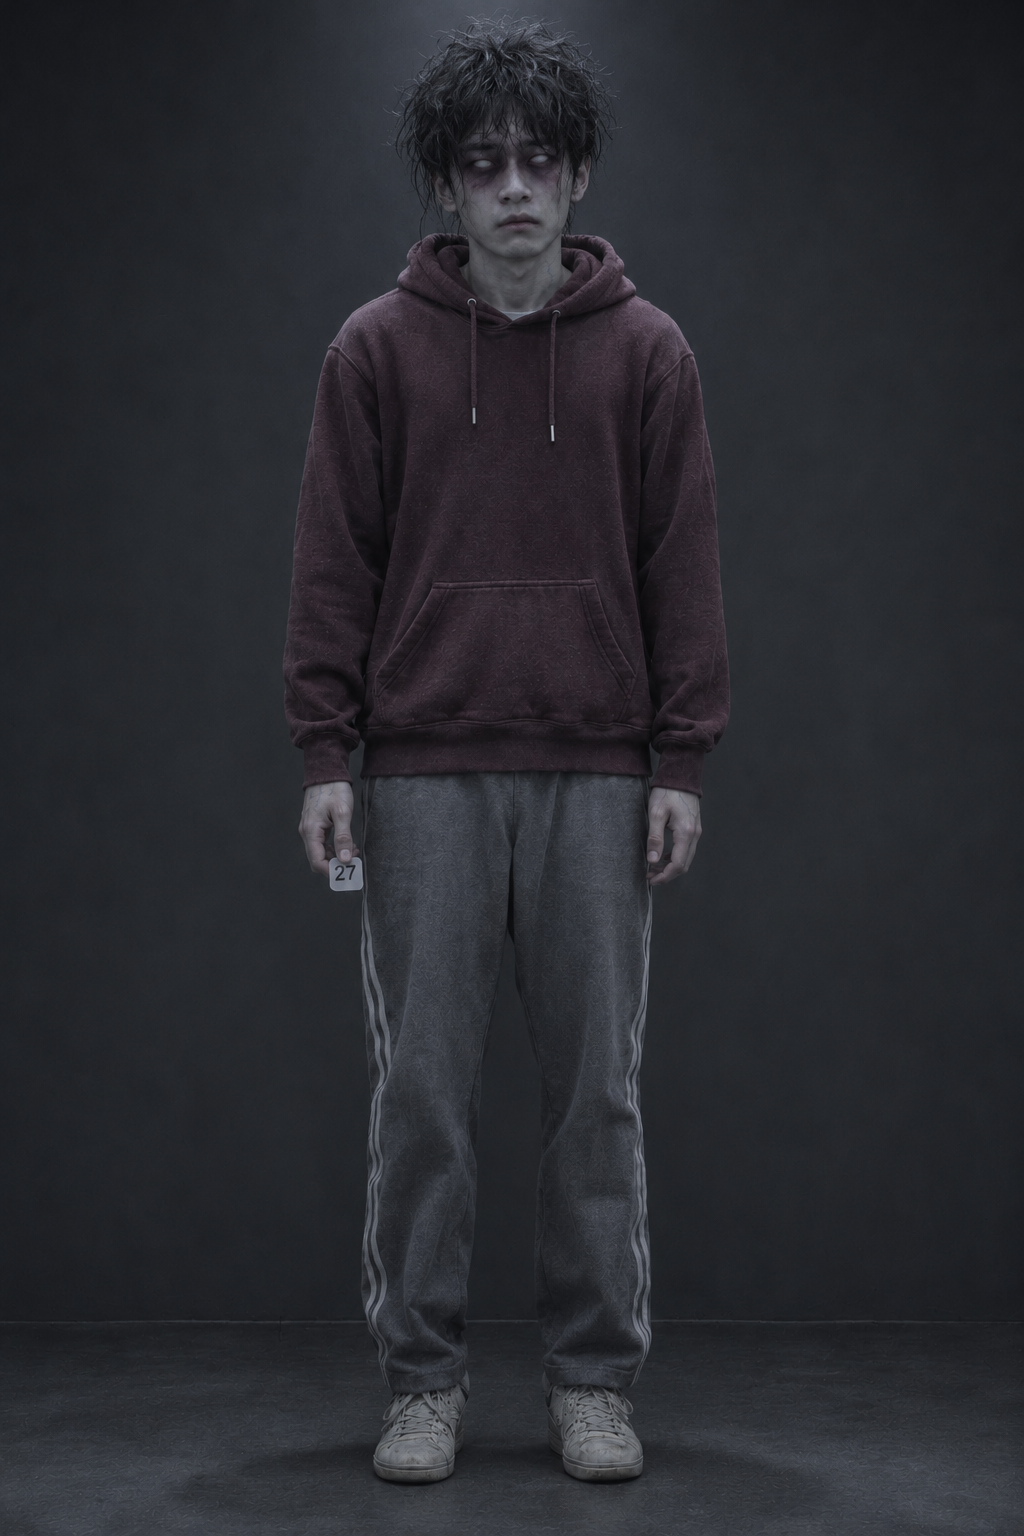
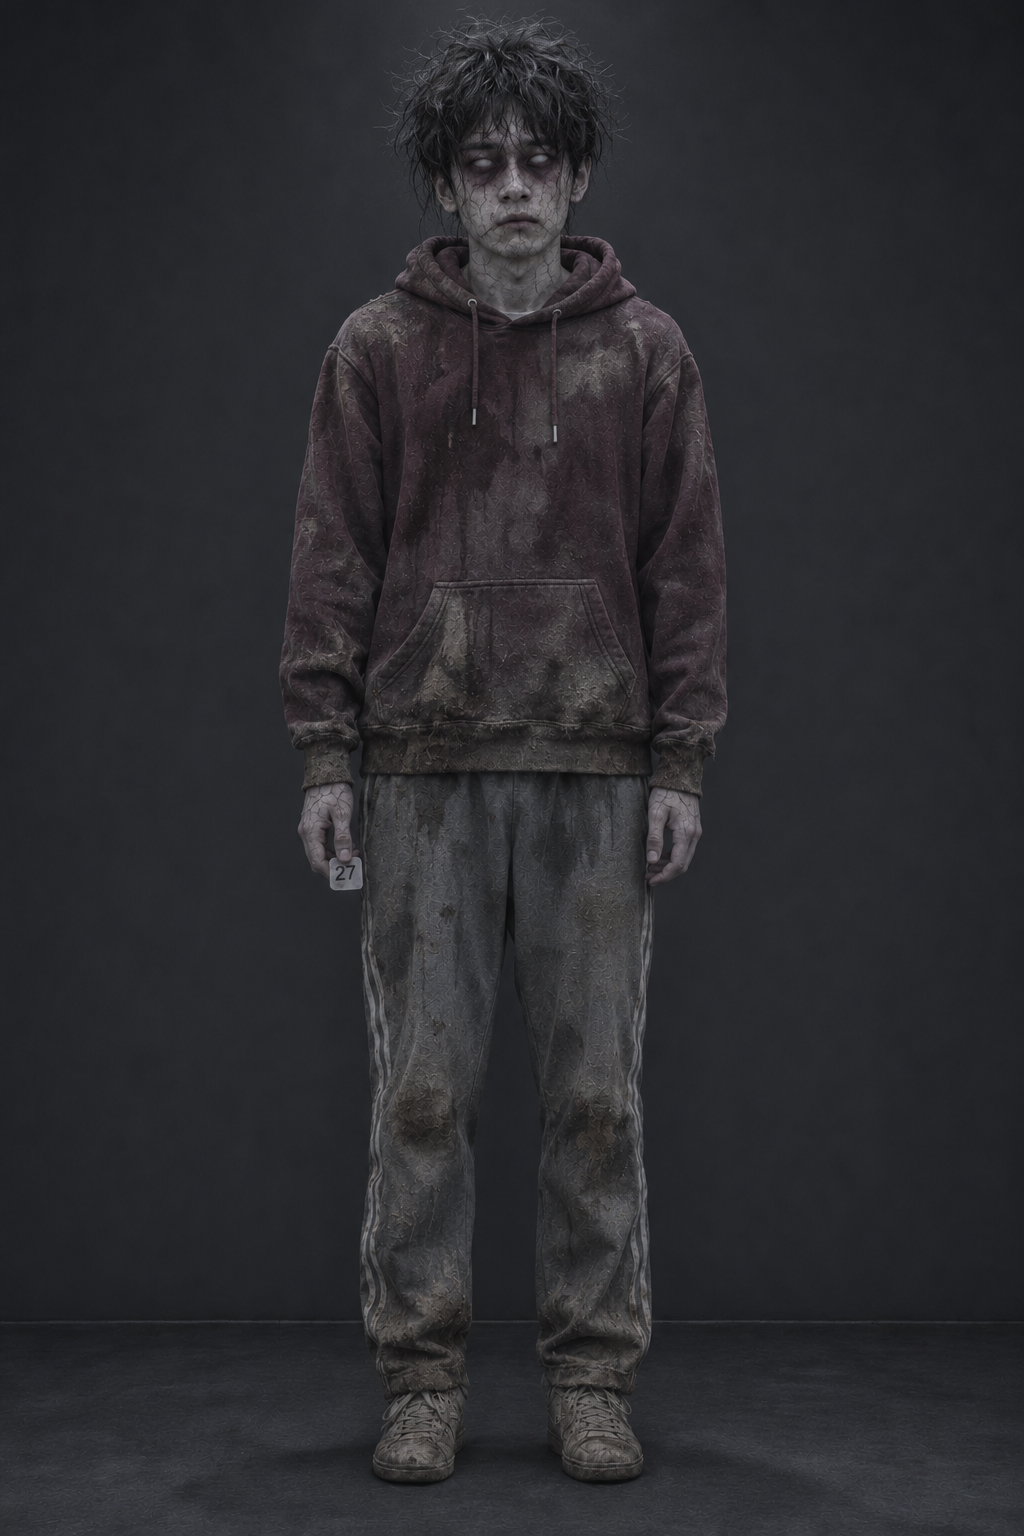
規格／影片素材：等號者三人幽靈全身加上衣著髒汙與臉部碎裂定稿
左 03（一道大裂縫）、中 04（整臉龜裂）、右 02（眼眶放射裂紋），衣服沾泥灰水漬；10-23 幽靈版基準補上碎裂與髒汙描述。

diff --git a/docs/10_製作規格/10-23_製作規格_影片素材設定.md b/docs/10_製作規格/10-23_製作規格_影片素材設定.md
@@ -143,7 +143,7 @@
 - **素材提示詞：**大廳塑膠等候椅上的三個年輕人（兩女一男，約十九到二十六歲），高矮胖瘦各不相同，穿的是自己平常的便服，像日常途中突然被帶進園區：左邊的女生是灰色針織開襟衫、白 T、淺色寬牛仔褲；中間的男生是暗紅帽 T、側邊白條紋的灰運動褲；右邊的女生是深藍大學 T、黑色寬褲。衣服乾淨但有一天下來的皺褶，色調低飽和。每人手裡都有一張塑膠號牌。第一人坐得最直；第二人縮肩、抿著嘴，嘴角被迫往兩側提起；第三人望著封住的出口，一手把號牌壓在膝上、一手扣住椅緣。異變只在頸部：衣領裡有一道細長的折角，頸影比肩膀多折一節，慢半拍才接回頭影。臉都沒有清楚五官（低垂、背光或模糊）。
 - **不要出現：**腐爛、傷口或血跡；三人長得一樣或穿同一套衣服；制服、戲服或破舊二手衣
 - **內部視覺基準：**[三人合照](../../assets/07_視聽與介面/assets/角色設定_等號者_合照_v1.png)是三人並坐、號牌與姿態的基準；左、中、右三人各有[左正面頭像](../../assets/07_視聽與介面/assets/角色設定_等號者_左_頭像_v1.png)與[左正面全身](../../assets/07_視聽與介面/assets/角色設定_等號者_左_全身_v1.png)、[中正面頭像](../../assets/07_視聽與介面/assets/角色設定_等號者_中_頭像_v1.png)與[中正面全身](../../assets/07_視聽與介面/assets/角色設定_等號者_中_全身_v1.png)、[右正面頭像](../../assets/07_視聽與介面/assets/角色設定_等號者_右_頭像_v1.png)與[右正面全身](../../assets/07_視聽與介面/assets/角色設定_等號者_右_全身_v1.png)，作為臉部與服裝基準。七張都是未異變的正常人形，只供內部對臉與定裝，不進遊戲畫面；遊戲內仍照本段不交清楚五官，頸部異變另依來源段製作。
-- **幽靈版內部視覺基準：**[左幽靈全身](../../assets/07_視聽與介面/assets/角色設定_等號者_左_幽靈_v1.png)與[左幽靈頭像](../../assets/07_視聽與介面/assets/角色設定_等號者_左_幽靈頭像_v1.png)、[中幽靈全身](../../assets/07_視聽與介面/assets/角色設定_等號者_中_幽靈_v1.png)與[中幽靈頭像](../../assets/07_視聽與介面/assets/角色設定_等號者_中_幽靈頭像_v1.png)、[右幽靈全身](../../assets/07_視聽與介面/assets/角色設定_等號者_右_幽靈_v1.png)與[右幽靈頭像](../../assets/07_視聽與介面/assets/角色設定_等號者_右_幽靈頭像_v1.png)以三人正面全身定裝為底，人、衣著與 28／27／25 號牌不變；全身是怨靈外觀的姿態基準，頭像是臉部細節基準。膚色灰白偏青、衣色褪淡；臉上沒有表情，只剩空洞的死盯；雙眼全白、沒有瞳孔也不發光，眼眶周圍大片發黑、凹陷，黑紫色一路暈到顴骨與眉骨；黑色血管只在太陽穴、脖子與手背淡淡浮現，不搶眼；頭髮凌亂打結、微濕，碎髮散在額頭和臉頰上。三人都一動也不動，像被看不見的東西吊著：左邊的女生踮著腳尖懸在地面上方，雙手垂直貼著身側，28 號牌別在毛衣胸前；中間的男生直挺挺站著，雙臂垂下，27 號牌捏在指間垂著；右邊的女生直挺挺站著，雙臂垂下，25 號牌捏在指間垂著。單次成像，沒有殘影、半透明或重影；脖子保持正常，不扭曲、不拉長，衣領內頸影慢半拍只在動畫演出中呈現。仍不出現腐爛、傷口或血跡。
+- **幽靈版內部視覺基準：**[左幽靈全身](../../assets/07_視聽與介面/assets/角色設定_等號者_左_幽靈_v1.png)與[左幽靈頭像](../../assets/07_視聽與介面/assets/角色設定_等號者_左_幽靈頭像_v1.png)、[中幽靈全身](../../assets/07_視聽與介面/assets/角色設定_等號者_中_幽靈_v1.png)與[中幽靈頭像](../../assets/07_視聽與介面/assets/角色設定_等號者_中_幽靈頭像_v1.png)、[右幽靈全身](../../assets/07_視聽與介面/assets/角色設定_等號者_右_幽靈_v1.png)與[右幽靈頭像](../../assets/07_視聽與介面/assets/角色設定_等號者_右_幽靈頭像_v1.png)以三人正面全身定裝為底，人、衣著與 28／27／25 號牌不變；全身是怨靈外觀的姿態、衣著髒汙與臉部碎裂基準，頭像是白眼、眼眶與皮膚質地的臉部細節基準（頭像沒有裂紋，裂紋以全身為準）。膚色灰白偏青、衣色褪淡；臉上沒有表情，只剩空洞的死盯；雙眼全白、沒有瞳孔也不發光，眼眶周圍大片發黑、凹陷，黑紫色一路暈到顴骨與眉骨；黑色血管只在太陽穴、脖子與手背淡淡浮現，不搶眼；頭髮凌亂打結、微濕，碎髮散在額頭和臉頰上。臉上有乾裂的黑色細紋，像摔裂的陶瓷娃娃，裂縫是乾的、不流血：左邊的女生一道裂縫從髮際穿過眼眶劈到下巴，中間的男生整張臉布滿細密龜裂，右邊的女生從兩邊眼眶往外放射出網狀裂紋。衣服沾滿泥巴、灰塵和水漬，袖口、褲腳、膝蓋與鞋子最髒，像在水泥地上躺了很久。三人都一動也不動，像被看不見的東西吊著：左邊的女生踮著腳尖懸在地面上方，雙手垂直貼著身側，28 號牌別在毛衣胸前；中間的男生直挺挺站著，雙臂垂下，27 號牌捏在指間垂著；右邊的女生直挺挺站著，雙臂垂下，25 號牌捏在指間垂著。單次成像，沒有殘影、半透明或重影；脖子保持正常，不扭曲、不拉長，衣領內頸影慢半拍只在動畫演出中呈現。仍不出現腐爛、傷口或血跡。
 - **來源：**[昆蟲化分配：E-01 等號者](../09_劇本/09-15_正式劇本_共用附錄.md#h-0412-140)
 
 <a id="va-receptionist"></a>
